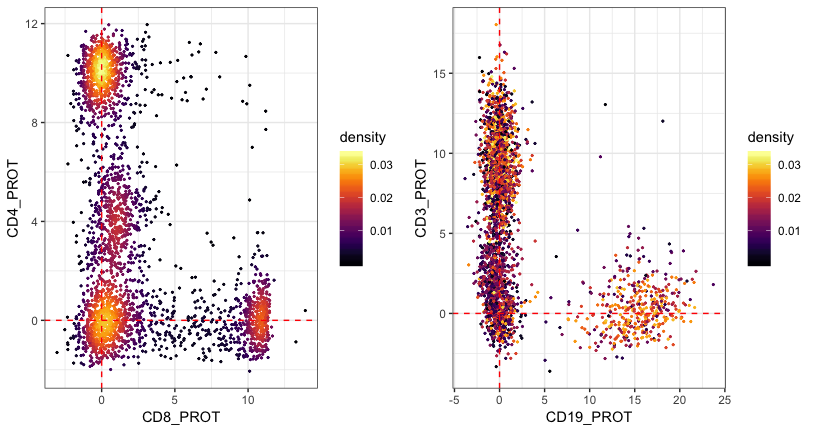
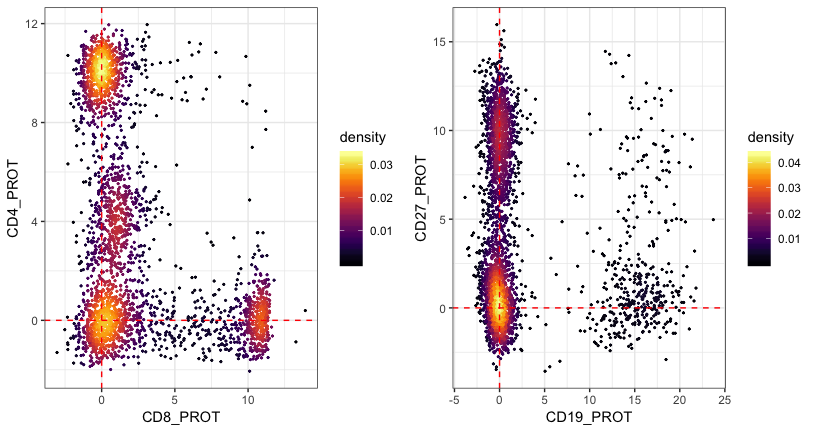
updatae readme

diff --git a/README.md b/README.md
@@ -97,8 +97,8 @@ get_density = function(x, y, ...) {
 library(ggplot2)
 data.plot = normalized_matrix %>% t %>%
   as.data.frame() %>% 
-  dplyr::select(CD4_PROT, CD8_PROT, CD3_PROT, CD19_PROT) 
-data.plot = data.plot %>%   dplyr::mutate(density = get_density(data.plot$CD4_PROT, data.plot$CD8_PROT, n = 100)) 
+  dplyr::select(CD4_PROT, CD8_PROT, CD27_PROT, CD19_PROT) 
+data.plot = data.plot %>% dplyr::mutate(density = get_density(data.plot$CD4_PROT, data.plot$CD8_PROT, n = 100)) 
 
 # plot with and without density gradient
 p1 = ggplot(data.plot, aes(x = CD8_PROT, y = CD4_PROT, color = density)) +
@@ -107,7 +107,8 @@ p1 = ggplot(data.plot, aes(x = CD8_PROT, y = CD4_PROT, color = density)) +
   geom_hline(yintercept = 0, color = "red", linetype = 2) + 
   viridis::scale_color_viridis(option = "B") +  
   scale_shape_identity() 
-p2 = ggplot(data.plot, aes(x = CD19_PROT, y = CD3_PROT, color = density)) +
+data.plot = data.plot %>% dplyr::mutate(density = get_density(data.plot$CD19_PROT, data.plot$CD27_PROT, n = 100)) 
+p2 = ggplot(data.plot, aes(x = CD19_PROT, y = CD27_PROT, color = density)) +
   geom_point(size = 0.4) + theme_bw() +
   geom_vline(xintercept = 0, color = "red", linetype = 2) + 
   geom_hline(yintercept = 0, color = "red", linetype = 2) + 
